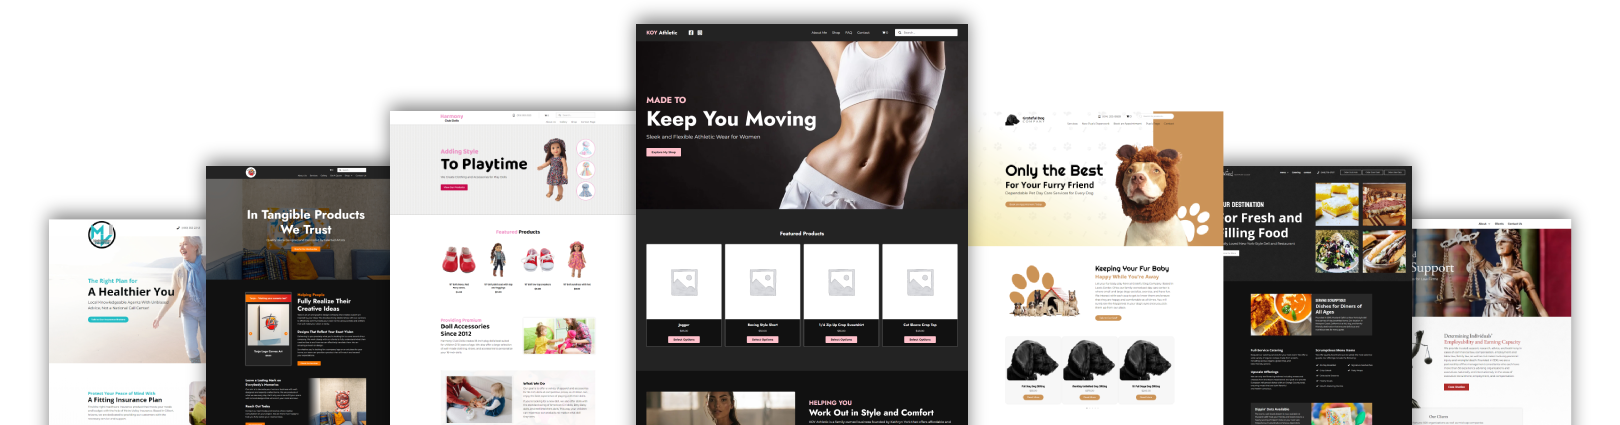
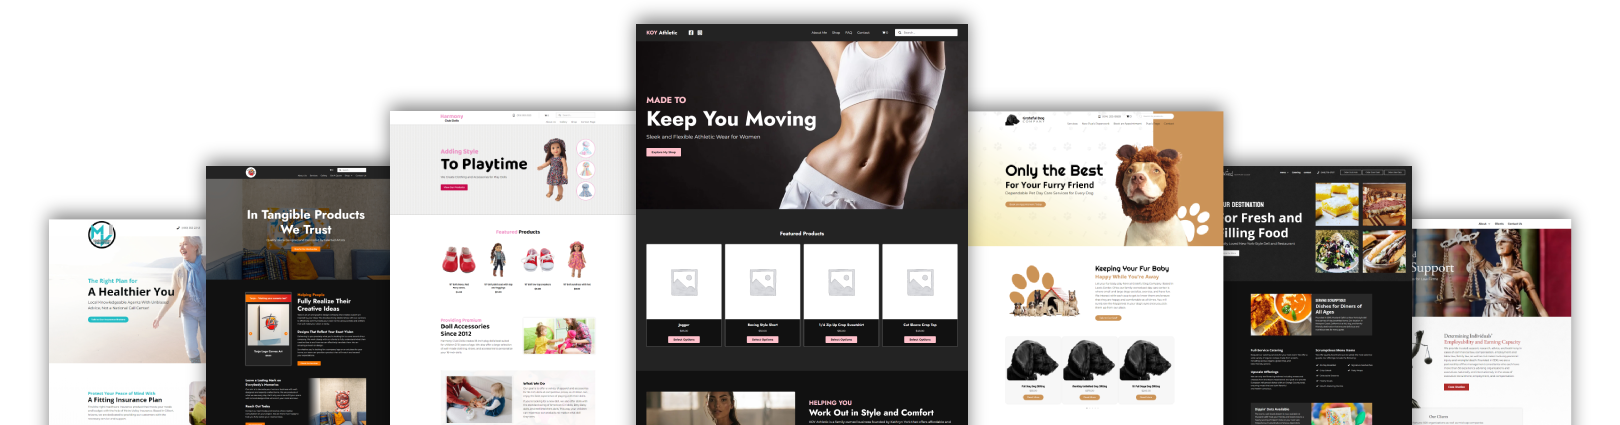
Update
Update portfolio section image and section spaces

Changed region(s): [[0.5864, 0.2141, 0.7716, 0.3671]]

diff --git a/index.html b/index.html
@@ -131,10 +131,10 @@
         <div class="container">
           <div class="row text-center">
               <h2>Browse My Portfolio</h2>
-              <p>Look at the designs I've created over the years.</p>
+              <p>Take a look at the designs I've created over the years.</p>
 
               <!-- Button trigger modal -->
-              <button type="button" class="btn btn-primary" data-bs-toggle="modal" data-bs-target="#staticBackdrop">Take a Look</button>
+              <button type="button" class="btn btn-primary" data-bs-toggle="modal" data-bs-target="#staticBackdrop">Browse Portfolio</button>
 
               <!-- Modal -->
               <div class="modal fade" id="staticBackdrop" data-bs-backdrop="static" data-bs-keyboard="false" tabindex="-1" aria-labelledby="staticBackdropLabel" aria-hidden="true">

diff --git a/css/style.css b/css/style.css
@@ -155,13 +155,19 @@ section {
 
 .img-gallery {
     display: grid;
-    grid-template-columns: repeat(auto-fit, minmax(200px, 1fr));
+    grid-template-columns: repeat(auto-fit, minmax(100px, 1fr));
     grid-gap: 20px;
 }
 
 .img-gallery img {
     width: 100%;
     cursor: pointer;
+}
+
+.img-gallery img:hover {
+    border: 1px solid #e9c02b;
+    scale: 1.05;
+    transition: ease-in 230ms;
 }
 
 .img-thumbnail { padding: 0 !important; }
@@ -176,7 +182,7 @@ section {
 .btn-trigger { display: none; }
 
 .website-display { 
-    margin-top: 240px;
+    margin-top: 23%;
     background-color: #448C74;
     width: 95%;
     border-radius: 20px;
@@ -185,7 +191,7 @@ section {
  }
 
 .website-display img { 
-    width: 80%;
+    width: 90%;
     height: auto;
     z-index: 2;
     position: relative;
